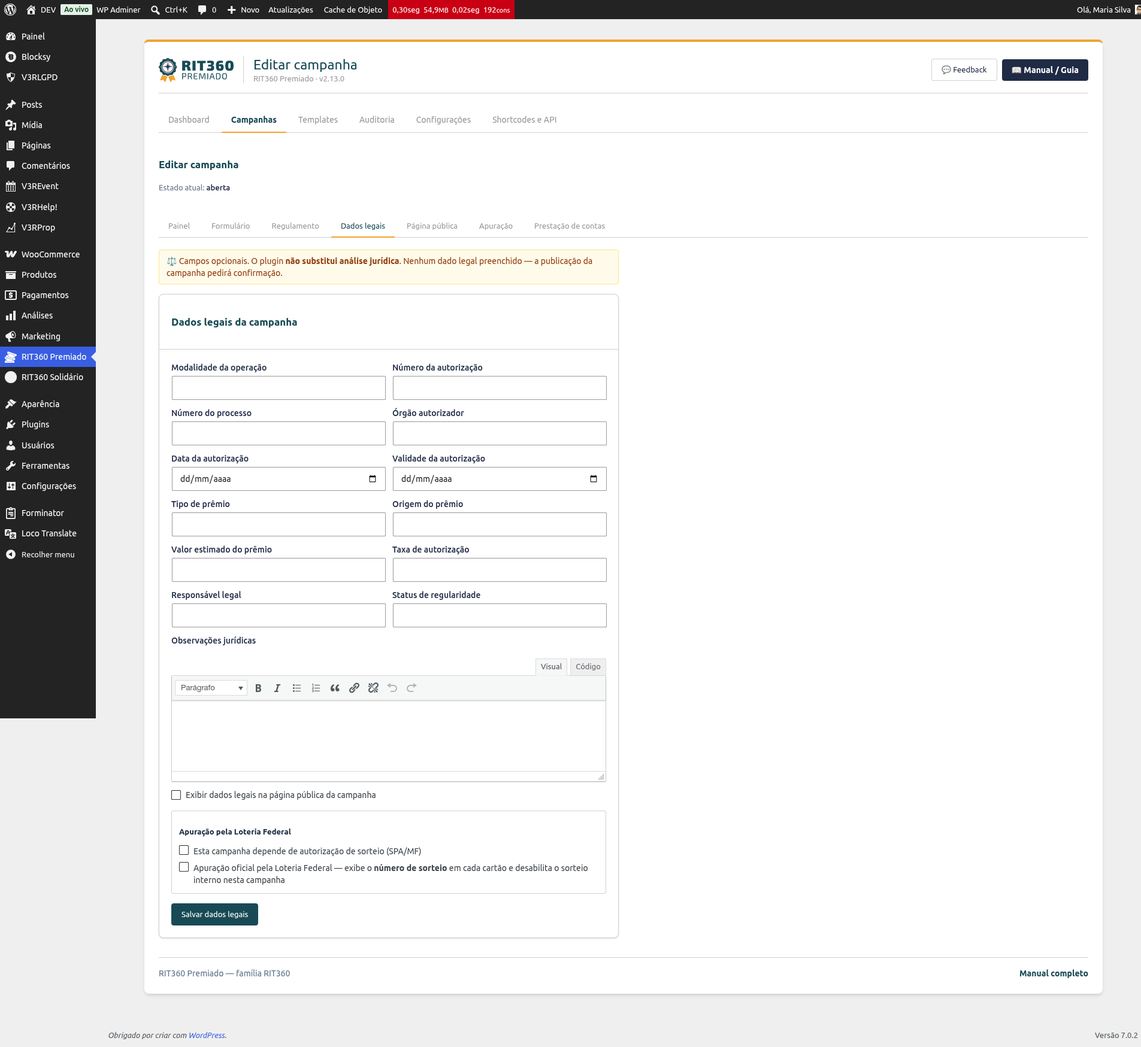
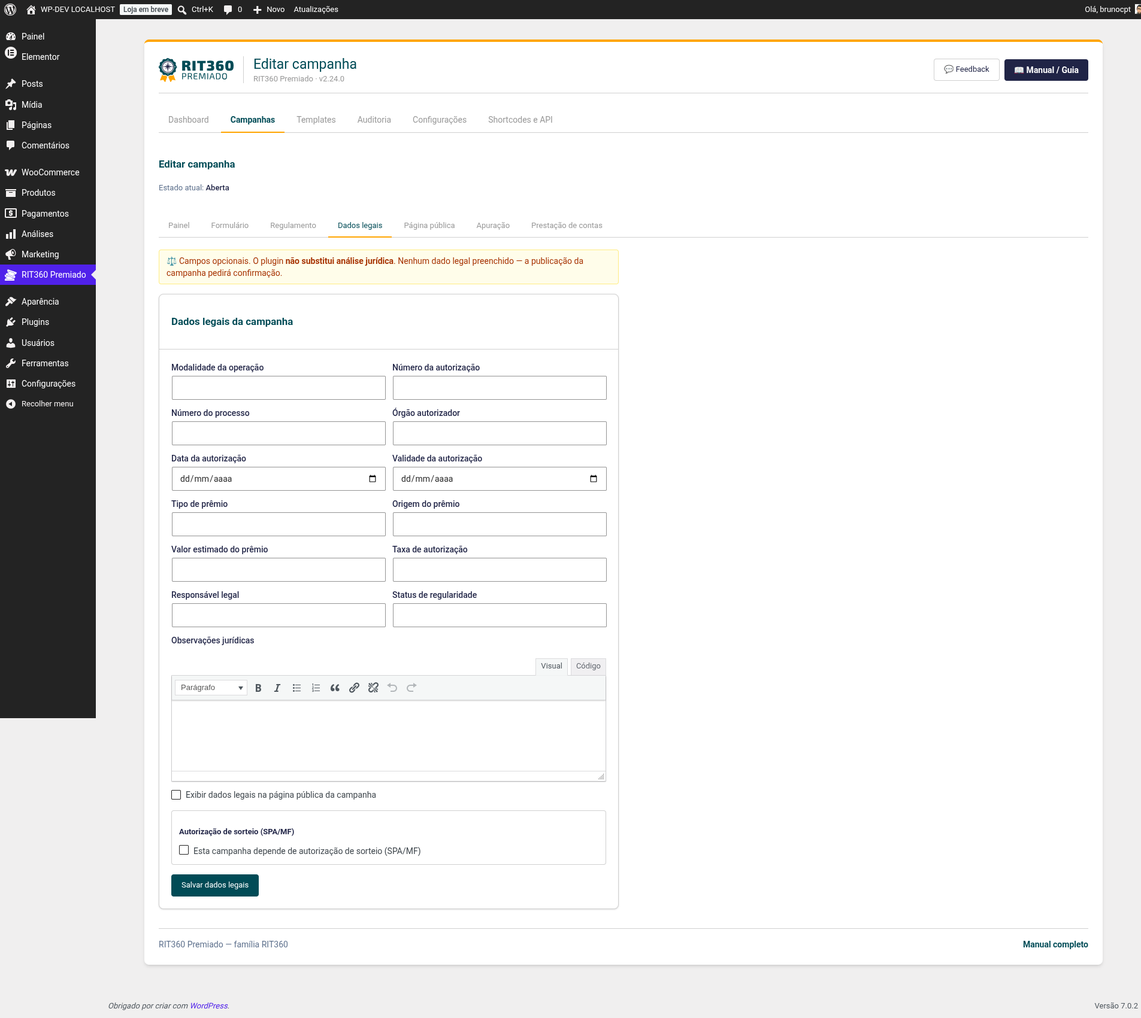
docs(manual): apuração personalizável, aviso que some, transparência em todos os temas (v2.24.0)
#187 — Nova seção "Personalizar o texto da apuração numa campanha específica"
em Publicar o regulamento, explicando herança da biblioteca x texto próprio,
o botão Restaurar padrão e por que a cláusula não pode ser removida (esvaziar
= restaurar). Etapa "Apuração" incluída na lista de etapas do assistente.

#191 — Aviso de regulamento desatualizado: passa a sumir ao republicar e só
aparece nas telas do plugin. Atualizado no guia, no módulo e no FAQ.

#188 — REMOVIDA a tabela "em que temas o painel de transparência funciona",
escrita na leva anterior e agora obsoleta: funciona nos 6 temas. Documentado
que em Moderno/Divertido/Simples a seção nasce desligada e o admin avisa
quando há indicadores marcados com a seção desligada.

#190 — Removidas as passagens sobre dois campos que não existem mais:
a caixa "Apuração oficial pela Loteria Federal" (aba Dados legais) e a
"Regra de não-bate" (Configurações -> Apuração), inclusive as orientações
de "pode ignorar".

Prints: bp-09-dados-legais e bp-19-config-apuracao recapturados (v2.24.0, sem
os campos removidos); novos reg-apuracao-override, reg-apuracao-override-
personalizado e publica-transparencia-secoes. Capturados no DEV via Playwright,
dados fake.

diff --git a/guias/publicar-regulamento.md b/guias/publicar-regulamento.md
@@ -6,8 +6,8 @@ permalink: /guias/publicar-regulamento/
 task: publicar-regulamento
 role: admin
 routes: ["#/campanhas/:id"]
-screenshots: [reg-assistente-etapas, reg-outras-clausulas, reg-ordenar-clausulas, reg-banco-clausulas-target, bp-09-dados-legais, admin-aviso-republicar-regulamento]
-source_docs: [PRD_Bussola_Premiada.md#8.10, PRD_Bussola_Premiada.md#8.11]
+screenshots: [reg-assistente-etapas, reg-outras-clausulas, reg-ordenar-clausulas, reg-banco-clausulas-target, bp-09-dados-legais, admin-aviso-republicar-regulamento, reg-apuracao-override, reg-apuracao-override-personalizado]
+source_docs: [PRD_Bussola_Premiada.md#8.10, PRD_Bussola_Premiada.md#8.11, CHANGELOG.md#2.24.0]
 last_verified: 2026-08-09
 status: publicado
 ---
@@ -20,17 +20,18 @@ O regulamento é **obrigatório**: nenhuma campanha entra no ar sem um regulamen
 
 ## Onde fica
 
-Abra a campanha e clique na aba de topo **Regulamento**. No topo há uma **barra de progresso** com as cinco etapas do assistente.
+Abra a campanha e clique na aba de topo **Regulamento**. No topo há uma **barra de progresso** com as etapas do assistente.
 
 ![Assistente de regulamento em etapas](/assets/screenshots/reg-assistente-etapas.png)
 
-## As cinco etapas
+## As etapas
 
 1. **Dados da campanha** — dados da organização e da campanha (nome, CNPJ, prêmio, datas, quantidade, valor) entram **sozinhos**; você só confere. Ajuste-os, se preciso, na campanha e em **Organização**.
-2. **Cláusulas essenciais** — as seções principais (critérios de participação, política de entrega etc.). Em cada campo há o botão **“+ Inserir da biblioteca”**: clique para trazer um **texto-modelo pronto** e então edite à vontade. Os campos com **\*** são obrigatórios.
-3. **Outras cláusulas** — cláusulas gerais (LGPD, foro, destinação à causa…) e qualquer texto livre, em forma de **cartões** que você adiciona, edita e remove. Use **“+ Inserir da biblioteca”** para começar de um modelo, ou **“+ Cláusula em branco”** para escrever do zero.
-4. **Ordenar cláusulas** — defina a **sequência** em que as cláusulas aparecem no documento final. Aqui as **essenciais e as outras aparecem juntas, numa lista só**, e você as reordena com as setas **↑ ↓**. As cláusulas de **Objeto** e **Apuração** ficam fixas no início.
-5. **Revisão** — pré-visualização fiel ao que o público verá + o botão **Publicar**.
+2. **Apuração** — aparece **só em campanhas de Loteria Federal**, com as cláusulas que explicam como o contemplado é encontrado. Elas entram prontas; aqui você pode ajustá-las se aquela campanha tiver alguma particularidade (veja [Personalizar o texto da apuração](#personalizar-apuracao)).
+3. **Cláusulas essenciais** — as seções principais (critérios de participação, política de entrega etc.). Em cada campo há o botão **“+ Inserir da biblioteca”**: clique para trazer um **texto-modelo pronto** e então edite à vontade. Os campos com **\*** são obrigatórios.
+4. **Outras cláusulas** — cláusulas gerais (LGPD, foro, destinação à causa…) e qualquer texto livre, em forma de **cartões** que você adiciona, edita e remove. Use **“+ Inserir da biblioteca”** para começar de um modelo, ou **“+ Cláusula em branco”** para escrever do zero.
+5. **Ordenar cláusulas** — defina a **sequência** em que as cláusulas aparecem no documento final. Aqui as **essenciais e as outras aparecem juntas, numa lista só**, e você as reordena com as setas **↑ ↓**. As cláusulas de **Objeto** e **Apuração** ficam fixas no início.
+6. **Revisão** — pré-visualização fiel ao que o público verá + o botão **Publicar**.
 
 ![Etapa Outras cláusulas, com cartões editáveis](/assets/screenshots/reg-outras-clausulas.png)
 
@@ -65,6 +66,30 @@ São quatro cláusulas, na seção **Apuração** do documento:
 
 Se você tentar publicar um regulamento de campanha Loteria Federal sem a descrição da apuração, o plugin **barra a publicação** e avisa o que falta. Isso existe porque, até a versão 2.22.0, o texto padrão remetia a regras que nunca chegavam a ser descritas no documento — o participante lia uma promessa vazia.
 
+### Personalizar o texto da apuração numa campanha específica
+{: #personalizar-apuracao }
+
+> **Novidade da versão 2.24.0.** Antes, esse texto só podia ser mudado na **biblioteca de cláusulas** — e mexer lá afetava **todas** as campanhas de uma vez. Agora, se uma campanha tiver uma particularidade legítima, você ajusta o texto **só naquela rifa**.
+
+Na etapa **Apuração** do assistente, cada cláusula aparece com o botão **“Personalizar nesta campanha”** ao lado do título.
+
+![Bloco Apuração (Loteria Federal) na aba Regulamento](/assets/screenshots/reg-apuracao-override.png)
+
+**Como funciona a escolha — e por que ela importa:**
+
+- **Sem personalizar (o padrão):** a campanha **herda o texto da biblioteca**. Se a biblioteca for melhorada depois — um ajuste de redação, uma explicação mais clara —, essa campanha **recebe a melhoria automaticamente**. É o comportamento recomendado na maioria dos casos.
+- **Ao clicar em “Personalizar nesta campanha”:** o texto passa a ser **daquela campanha**. Um selo **“personalizado nesta campanha”** aparece ao lado do título, e o botão vira **“Restaurar padrão”**. A partir daí, aquela campanha **deixa de acompanhar** a biblioteca — melhorias futuras não chegam nela.
+
+![Cláusula personalizada, com o selo e o botão Restaurar padrão](/assets/screenshots/reg-apuracao-override-personalizado.png)
+
+Para voltar atrás, clique em **“Restaurar padrão”**: a personalização é descartada e a campanha volta a herdar a biblioteca.
+
+> ⚠ **A descrição da apuração não pode ser removida**
+>
+> Você pode **ajustar** o texto ou **restaurar o padrão** — mas não deixá-lo em branco. Se você apagar tudo, o plugin entende como um **pedido de restaurar o padrão** e devolve o texto da biblioteca.
+>
+> Isso é uma **proteção, não uma limitação**: um regulamento que não diz como o ganhador é escolhido deixa o participante sem como conferir o resultado, e é exatamente o problema que a versão 2.23.0 veio resolver. Se o texto padrão não serve para a sua campanha, **reescreva-o** — não o esvazie.
+
 ### "Este regulamento está com a apuração desatualizada"
 {: #regulamento-apuracao-desatualizada }
 
@@ -73,6 +98,8 @@ Campanhas cujo regulamento foi publicado **antes** dessa mudança aparecem **sin
 ![Aviso no painel do WordPress listando as campanhas a republicar](/assets/screenshots/admin-aviso-republicar-regulamento.png)
 
 **O que fazer:** o texto publicado é **congelado por versão** e não se corrige sozinho. Abra a campanha, vá na aba **Regulamento** e **republique** — o plugin gera uma nova versão já com as cláusulas completas, e a anterior fica arquivada no histórico.
+
+> **Melhorou na versão 2.24.0.** O aviso agora **some assim que você republica** — antes ele continuava aparecendo mesmo depois de você fazer exatamente o que ele pedia. E ele passou a aparecer **só nas telas do RIT360 Premiado**; antes surgia em todas as páginas do WordPress (Posts, Mídia, Plugins, Usuários…). Se o aviso continuar após republicar, é sinal de que **outra** campanha ainda está pendente — confira os nomes listados nele.
 
 **É urgente?** Não é bloqueante: a campanha continua funcionando normalmente. Mas há uma consequência prática — enquanto o regulamento publicado não declarar o prazo de 5 dias, aquela campanha **não** é finalizada automaticamente pelo sistema (veja [Realizar o sorteio](/guias/realizar-sorteio/#prazo-conferencia)). Se a campanha já vendeu cartões, avalie republicar com calma: o regulamento é o documento que os participantes leram.
 

diff --git a/novidades.md b/novidades.md
@@ -15,6 +15,30 @@ O que há de novo no RIT360 Premiado, em linguagem simples. Cada item indica a *
 
 ---
 
+## Versão 2.24 — Ajuste fino do regulamento, avisos que se comportam e transparência em qualquer tema
+
+**Regulamento:**
+
+- **Agora dá para ajustar o texto da apuração em uma campanha específica.** Antes, esse texto só podia ser mudado na biblioteca de cláusulas — e mexer lá afetava **todas** as campanhas de uma vez. Se uma rifa tem uma particularidade legítima, você personaliza só ela.
+- **Quem não personaliza continua acompanhando a biblioteca**, inclusive quando ela é melhorada. Quem personaliza passa a ter texto próprio e deixa de receber essas melhorias — há um botão **Restaurar padrão** para voltar atrás quando quiser.
+- **A descrição da apuração não pode ser apagada:** esvaziar o texto equivale a restaurar o padrão. É proteção, não limitação — nenhum regulamento deve ir ao ar sem dizer como o contemplado é escolhido. Veja [Personalizar o texto da apuração](/guias/publicar-regulamento/#personalizar-apuracao).
+
+**O aviso de regulamento desatualizado ficou bem-educado:**
+
+- **Ele some quando você republica.** Antes, o coordenador fazia exatamente o que o aviso pedia e ele continuava lá para sempre — o que ensina a ignorar avisos.
+- **Ele só aparece nas telas do RIT360 Premiado.** Antes surgia em todo o WordPress: Posts, Mídia, Plugins, Usuários…
+
+**Página pública:**
+
+- **A seção Transparência funciona nos 6 temas.** Antes ela não era sequer oferecida em **Moderno (o padrão)**, Divertido e Simples: você marcava os indicadores, recebia confirmação, e o painel nunca aparecia. **Nesses três temas a seção nasce desligada** (para nenhuma campanha existente mudar de cara sozinha) — basta ligá-la em *Aparência da página*. E o admin agora **avisa** quando há indicadores marcados com a seção desligada. Veja [Painel de transparência](/guias/personalizar-pagina-publica/#painel-transparencia).
+
+**Dois campos que saíram das telas:**
+
+- A aba **Dados legais** não tem mais a caixa **"Apuração oficial pela Loteria Federal"**. Ela dava a entender que decidia o método de apuração, contradizendo a unificação feita na 2.22 — o método se define **só na aba Formulário**. Campanhas antigas não perdem nada.
+- As **Configurações → Apuração** não têm mais a **"Regra de não-bate"**, que não tinha efeito nenhum desde a 2.21 (a apuração pela Loteria Federal sempre encontra um cartão).
+
+---
+
 ## Versão 2.23 — O sorteio explicado por inteiro, e os campos que agora fazem o que prometem
 
 A versão dedicada a uma pergunta simples: **o participante consegue conferir o resultado sozinho?**
@@ -35,7 +59,7 @@ A versão dedicada a uma pergunta simples: **o participante consegue conferir o 
 
 - **Organização:** o **favicon** vira o ícone da aba do navegador na página da campanha; o **texto institucional curto** e o **contato de dúvidas** aparecem na página pública. Veja [Configurar a organização](/guias/configurar-organizacao/).
 - **Templates de cartão:** ganharam **quantidade recomendada**, **dica de uso** e **status Ativo/Inativo** — um template inativo deixa de ser oferecido ao criar campanha. Veja [Templates & Cartões](/modulos/templates-cartoes/).
-- **Painel de transparência:** dois indicadores novos, **Participantes** e **Resultado do sorteio**. ⚠ Atenção: o painel de transparência **só aparece nos temas Clássico, Emotivo e Sofisticado** — nos temas Moderno (o padrão), Divertido e Simples ele não é exibido, mesmo com os indicadores marcados. Detalhes em [Personalizar a página pública](/guias/personalizar-pagina-publica/#painel-transparencia).
+- **Painel de transparência:** dois indicadores novos, **Participantes** e **Resultado do sorteio**. *(Nesta versão o painel ainda só aparecia em 3 dos 6 temas — corrigido na 2.24, veja acima.)*
 
 **Correção de cartões:**
 
@@ -231,7 +255,7 @@ O passo a passo está em [Enviar feedback](/guias/enviar-feedback/).
 Agora dá para apurar pela **Loteria Federal** também as campanhas de **lista temática** (cartões que são nomes, não números).
 
 - Cada cartão ganha um **número de sorteio** (a posição na lista, ex.: *Duna · 07*), que casa com o resultado oficial da Loteria Federal.
-- Você liga isso na aba **Dados legais** da campanha, em **"Apuração oficial pela Loteria Federal"**. A partir daí o número aparece em todos os lugares onde o cartão é mostrado (grade de escolha, carrinho, e-mail, pedido, "Meus cartões" e resultado) — o participante sabe com que número concorre.
+- Você ligava isso na aba **Dados legais** da campanha, em "Apuração oficial pela Loteria Federal". *(Mudou depois: desde a 2.22 o método se define na aba **Formulário**, e na 2.24 essa caixa foi removida.)* A partir daí o número aparece em todos os lugares onde o cartão é mostrado (grade de escolha, carrinho, e-mail, pedido, "Meus cartões" e resultado) — o participante sabe com que número concorre.
 - Há também um sinalizador **"depende de autorização (SPA/MF)"**, que recomenda a Loteria e oferece uma **cláusula de regulamento** pronta.
 
 Veja em [Realizar o sorteio](/guias/realizar-sorteio/).

diff --git a/guias/personalizar-pagina-publica.md b/guias/personalizar-pagina-publica.md
@@ -6,7 +6,7 @@ permalink: /guias/personalizar-pagina-publica/
 task: personalizar-pagina-publica
 role: admin
 routes: ["#/organizacao", "#/campanhas/:id", "/campanha/:slug"]
-screenshots: [tema-01-org-identidade, tema-02-campanha-padrao-personalizar, publica-hero-modos, tema-03-publica-clara, tema-04-publica-escura, publica-tamanho-texto, bp-29-config-meta-video, bp-30-publica-termometro, bp-31-publica-video, publica-transparencia, publica-vendas-encerradas]
+screenshots: [tema-01-org-identidade, tema-02-campanha-padrao-personalizar, publica-hero-modos, tema-03-publica-clara, tema-04-publica-escura, publica-tamanho-texto, bp-29-config-meta-video, bp-30-publica-termometro, bp-31-publica-video, publica-transparencia, publica-transparencia-secoes, publica-vendas-encerradas]
 source_docs: [PRD_Bussola_Premiada.md#8.7, PRD_Bussola_Premiada.md#8.8, PRD_Bussola_Premiada.md#8.9, CHANGELOG.md#2.6.0, CHANGELOG.md#2.13.0, CHANGELOG.md#2.13.2]
 last_verified: 2026-08-09
 status: publicado
@@ -101,7 +101,7 @@ O **hero** é a primeira faixa da página — o "cartaz" da campanha. No card **
 
 ## O que mais dá para ajustar nesta aba
 
-- **Painel de transparência** — escolha quais indicadores mostrar (total arrecadado, cartões vendidos, cartões restantes…). O financeiro fica **oculto por padrão** — ative só o que quiser expor. Veja abaixo, porque **o painel não aparece em todos os temas**.
+- **Painel de transparência** — escolha quais indicadores mostrar (total arrecadado, cartões vendidos, cartões restantes…). O financeiro fica **oculto por padrão** — ative só o que quiser expor. Veja abaixo: em alguns temas a seção precisa ser **ligada** antes.
 - **Meta da campanha (termômetro)** — defina uma meta de **cartões** e/ou de **arrecadação (R$)** e a página mostra um termômetro com o progresso e um aviso quando a meta é atingida (veja abaixo).
 - **Vídeo de divulgação** — cole um link do **YouTube** ou do **Vimeo** e o vídeo aparece embutido na página (veja abaixo).
 - **Compartilhamento / Open Graph** — os botões de redes sociais e o card que aparece quando o link é compartilhado.
@@ -118,20 +118,21 @@ O painel reúne, num quadro só, os números que dão credibilidade à campanha:
 
 ![Painel de transparência na página pública, com Participantes e Resultado](/assets/screenshots/publica-transparencia.png)
 
-> ⚠ **O painel de transparência não aparece em todos os temas**
+#### O painel funciona nos 6 temas (a partir da 2.24.0)
+
+Até a versão 2.23, o painel de transparência **só existia em 3 dos 6 temas** — e ficava de fora justamente do **Moderno, que é o padrão**. Você marcava os indicadores, salvava sem erro nenhum, e o público não via o painel.
+
+**Isso foi corrigido: agora o painel está disponível em todos os temas** — Sofisticado, Moderno, Clássico, Divertido, Emotivo e Simples. A escolha do tema não limita mais essa decisão.
+
+> ⚠ **Nos temas que antes não ofereciam o painel, ele nasce desligado**
 >
-> Verificado na tela, com os mesmos indicadores marcados, tema a tema:
+> Para que nenhuma campanha existente mudasse de aparência sozinha, nos temas **Moderno, Divertido e Simples** a seção **Transparência** vem **desligada**. Se você usa um desses temas e quer o painel, **ligue a seção**: em **Aparência da página**, marque **Transparência** na lista de seções exibidas.
 >
-> | Tema | Mostra o painel? |
-> |---|---|
-> | Clássico | Sim |
-> | Emotivo | Sim |
-> | Sofisticado | Sim |
-> | **Moderno (o padrão)** | **Não** |
-> | Divertido | Não |
-> | Simples | Não |
->
-> Ou seja: você pode marcar os indicadores, salvar sem erro nenhum, e **o público não ver o painel** — porque o tema escolhido não tem esse espaço. **Se o painel de transparência é importante para a sua campanha, use Clássico, Emotivo ou Sofisticado.** Isso já está registrado como um ajuste a fazer no produto; enquanto não sai, a escolha do tema é o que decide.
+> Nos temas Clássico, Emotivo e Sofisticado nada muda — a seção continua ligada como sempre esteve.
+
+**O plugin avisa quando os dois não combinam.** Se você marcar indicadores e a seção Transparência estiver desligada, aparece um alerta no próprio card, para você não descobrir isso pela página pública:
+
+![Aviso no admin quando há indicadores marcados e a seção Transparência está desligada](/assets/screenshots/publica-transparencia-secoes.png)
 
 ### Termômetro de meta
 

diff --git a/modulos/regulamento.md b/modulos/regulamento.md
@@ -18,7 +18,7 @@ O regulamento é o documento que define as regras da campanha — e é **obrigat
 
 ## Semi-automático, em etapas
 
-O assistente tem quatro etapas: **Dados da campanha** (automáticos), **Cláusulas essenciais**, **Outras cláusulas** e **Revisão**. O texto combina:
+O assistente tem as etapas: **Dados da campanha** (automáticos), **Apuração** (só em campanhas de Loteria Federal), **Cláusulas essenciais**, **Outras cláusulas**, **Ordenar cláusulas** e **Revisão**. O texto combina:
 
 1. **Dados automáticos** da organização e da campanha (nome, CNPJ, prêmio, datas, quantidade, valor).
 2. **Campos essenciais** que você preenche — com **“Inserir da biblioteca”** para trazer um texto-modelo pronto e editá-lo.
@@ -30,7 +30,17 @@ Ao inserir uma cláusula da biblioteca, o texto é **copiado e congelado** na ca
 
 Em campanhas cujo método é **Loteria Federal**, as cláusulas que descrevem a apuração entram **automaticamente** no documento — a regra com exemplo numérico, o concurso oficial utilizado, o tratamento de vários prêmios e o **prazo de 5 dias corridos** para conferência. E a publicação é **barrada** se a descrição da apuração não estiver lá.
 
-Campanhas com regulamento publicado antes dessa mudança ficam **sinalizadas por um aviso no painel do WordPress**, sugerindo republicar. Como o texto é congelado por versão, ele não se atualiza sozinho: republicar gera uma nova versão. O passo a passo está em [Publicar o regulamento](/guias/publicar-regulamento/#regulamento-apuracao-desatualizada).
+Campanhas com regulamento publicado antes dessa mudança ficam **sinalizadas por um aviso**, sugerindo republicar. Como o texto é congelado por versão, ele não se atualiza sozinho: republicar gera uma nova versão. Desde a **2.24.0**, o aviso **desaparece assim que a campanha é republicada** e aparece **apenas nas telas do plugin**. O passo a passo está em [Publicar o regulamento](/guias/publicar-regulamento/#regulamento-apuracao-desatualizada).
+
+## Apuração ajustável por campanha (2.24.0)
+
+As cláusulas de apuração das campanhas de Loteria Federal ficam numa etapa própria do assistente e podem ser **personalizadas em uma campanha específica**, sem mexer na biblioteca.
+
+- **Sem personalizar**, a campanha herda a biblioteca e **acompanha as melhorias** feitas nela.
+- **Personalizando**, aquela campanha passa a ter texto próprio e **deixa de acompanhar** a biblioteca. Um botão **Restaurar padrão** desfaz a personalização.
+- A cláusula **não pode ser removida**: esvaziar o texto equivale a restaurar o padrão — proteção para que nenhum regulamento seja publicado sem dizer como o contemplado é escolhido.
+
+Detalhes em [Personalizar o texto da apuração](/guias/publicar-regulamento/#personalizar-apuracao).
 
 ## Versionado e carimbado
 

diff --git a/guias/realizar-sorteio.md b/guias/realizar-sorteio.md
@@ -32,11 +32,11 @@ As três opções são:
 
 Ao escolher **Loteria Federal**, cada cartão passa a ter um **número de sorteio** (a posição dele na lista) exibido para o participante em todos os lugares — na grade de escolha, no carrinho, no e-mail de confirmação, no pedido, no painel "Meus cartões" e no resultado. É esse número que casa com a extração oficial.
 
-> 💡 **E a opção da aba Dados legais?**
+> 💡 **E a aba Dados legais?**
 >
-> Na aba **Dados legais** ainda existe uma caixa **"Apuração oficial pela Loteria Federal"**, de versões anteriores. Ela continua ali por compatibilidade com campanhas antigas, mas **não é mais o lugar de escolher o método** — quem manda é o campo da aba Formulário. Para campanhas novas, deixe a decisão no formulário e não se preocupe com essa caixa.
+> Ela **não escolhe mais o método**. Até a versão 2.23 havia lá uma caixa "Apuração oficial pela Loteria Federal" que dava a entender o contrário; **na 2.24.0 ela foi removida**, para não haver dois lugares dizendo coisas diferentes. O método se define **só na aba Formulário**. Campanhas antigas não perdem nada — o valor antigo continua sendo respeitado nos bastidores.
 >
-> Ao lado dela fica a opção **"Esta campanha depende de autorização de sorteio (SPA/MF)"**. Marcando-a, o plugin **recomenda** o método Loteria Federal — é o que atende ao rito legal dos sorteios autorizados — e disponibiliza uma cláusula de regulamento pronta sobre o assunto. Isto é apoio ao processo: a necessidade da autorização e a conferência do regulamento com um advogado continuam sendo responsabilidade da organização.
+> O que continua na aba Dados legais é o bloco **Autorização de sorteio (SPA/MF)**, com a opção **"Esta campanha depende de autorização de sorteio (SPA/MF)"**. Marcando-a, o plugin **recomenda** o método Loteria Federal — é o que atende ao rito legal dos sorteios autorizados — e disponibiliza uma cláusula de regulamento pronta sobre o assunto. Isto é apoio ao processo: a necessidade da autorização e a conferência do regulamento com um advogado continuam sendo responsabilidade da organização.
 
 ## Onde se apura
 

diff --git a/modulos/configuracoes.md b/modulos/configuracoes.md
@@ -6,7 +6,7 @@ permalink: /modulos/configuracoes/
 role: admin
 routes: ["#/organizacao"]
 screenshots: [bp-15-config-organizacao, bp-16-config-identidade, bp-27-config-usuarios, bp-28-config-globais-campanha, bp-19-config-apuracao, bp-20-config-pdf]
-last_verified: 2026-07-05
+last_verified: 2026-08-09
 status: publicado
 ---
 
@@ -26,7 +26,7 @@ A seção **Configurações** guarda os dados da organização e os padrões glo
 - **Configurações Globais da Campanha** — o **contato de dúvidas** que aparece no regulamento e os **padrões de reserva de cartões** (*Tempo de reserva do cartão* — por quantos minutos um cartão escolhido fica reservado para a pessoa concluir a compra, **padrão: 15 minutos** — e *máximo de cartões por reserva*). Cada campanha pode sobrescrever esses padrões.
   ![Aba Configurações Globais da Campanha](/assets/screenshots/bp-28-config-globais-campanha.png)
 - **Banco de Cláusulas de Regulamento** — a biblioteca de cláusulas prontas usada no regulamento.
-- **Apuração** — os padrões globais de sorteio (método padrão, política do contemplado reembolsado).
+- **Apuração** — os padrões globais de sorteio (política do contemplado reembolsado, exposição pública do ganhador) e a **busca automática do resultado da Loteria Federal**. O método de apuração **não** se define aqui: ele é escolhido em cada campanha, na aba Formulário.
   ![Aba Apuração](/assets/screenshots/bp-19-config-apuracao.png)
 - **PDF / Relatórios** — o motor de geração de PDF dos documentos.
   ![Aba PDF / Relatórios](/assets/screenshots/bp-20-config-pdf.png)

diff --git a/modulos/pagina-publica.md b/modulos/pagina-publica.md
@@ -20,7 +20,7 @@ Cada campanha tem um **hotsite próprio**, mobile-first, no endereço `/campanha
 
 - O(s) **prêmio(s)** com galeria de fotos — quando a campanha tem vários prêmios, todos aparecem em ordem (1º, 2º, 3º…).
 - A **história da causa** (texto rico).
-- O **progresso das vendas** e o **painel de transparência** (indicadores que você escolhe — incluindo **Participantes** e **Resultado do sorteio**, a partir da 2.23.0). ⚠ O painel só é exibido nos temas **Clássico, Emotivo e Sofisticado**; veja [Painel de transparência](/guias/personalizar-pagina-publica/#painel-transparencia).
+- O **progresso das vendas** e o **painel de transparência** (indicadores que você escolhe — incluindo **Participantes** e **Resultado do sorteio**, a partir da 2.23.0). A partir da **2.24.0** o painel funciona **nos 6 temas**; nos temas Moderno, Divertido e Simples ele nasce **desligado** e precisa ser ligado nas seções. Veja [Painel de transparência](/guias/personalizar-pagina-publica/#painel-transparencia).
 - A **seleção de cartões** (manual ou automática).
 - O **regulamento**.
 - A **barra de compartilhamento** (WhatsApp, Facebook, X, LinkedIn, copiar link).

diff --git a/guias/configurar-organizacao.md b/guias/configurar-organizacao.md
@@ -44,7 +44,6 @@ A tela de Configurações também guarda ajustes que você vai usar depois:
 
 - **Banco de Cláusulas de Regulamento** — a biblioteca de cláusulas prontas que alimenta o regulamento das campanhas.
 - **Apuração** — os padrões globais de sorteio (política do contemplado reembolsado, exposição pública do ganhador) e a opção de **buscar automaticamente o resultado da Loteria Federal**. Veja [Realizar o sorteio](/guias/realizar-sorteio/#busca-automatica).
-  - O campo **"Regra de não-bate (método externo)"** que aparece nesta aba é de versões anteriores: desde a 2.21.0 a apuração pela Loteria Federal **sempre encontra um cartão**, então não há mais regra de aproximação a aplicar. Pode ignorá-lo.
 - **PDF / Relatórios** — o motor de geração de PDF dos documentos.
 
 > 💡 **Dica**
